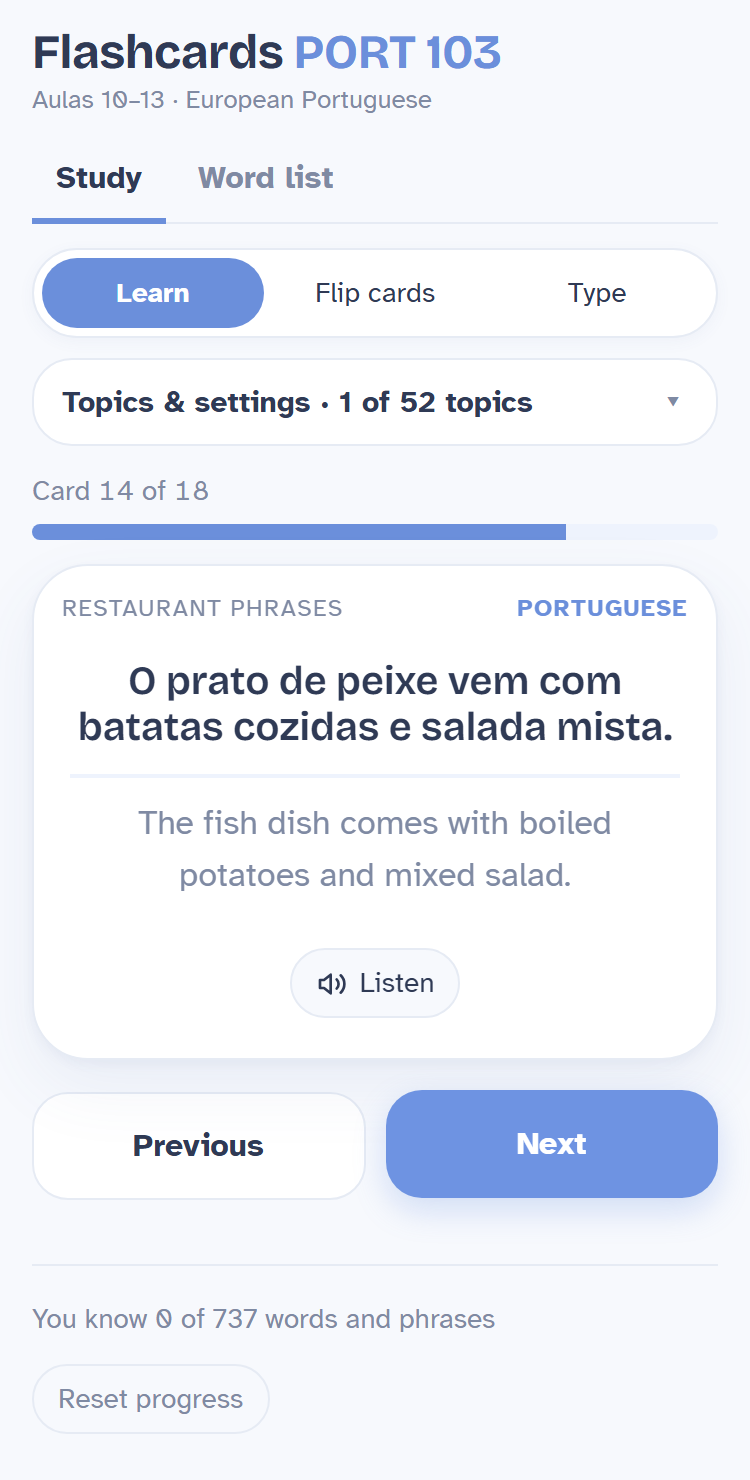
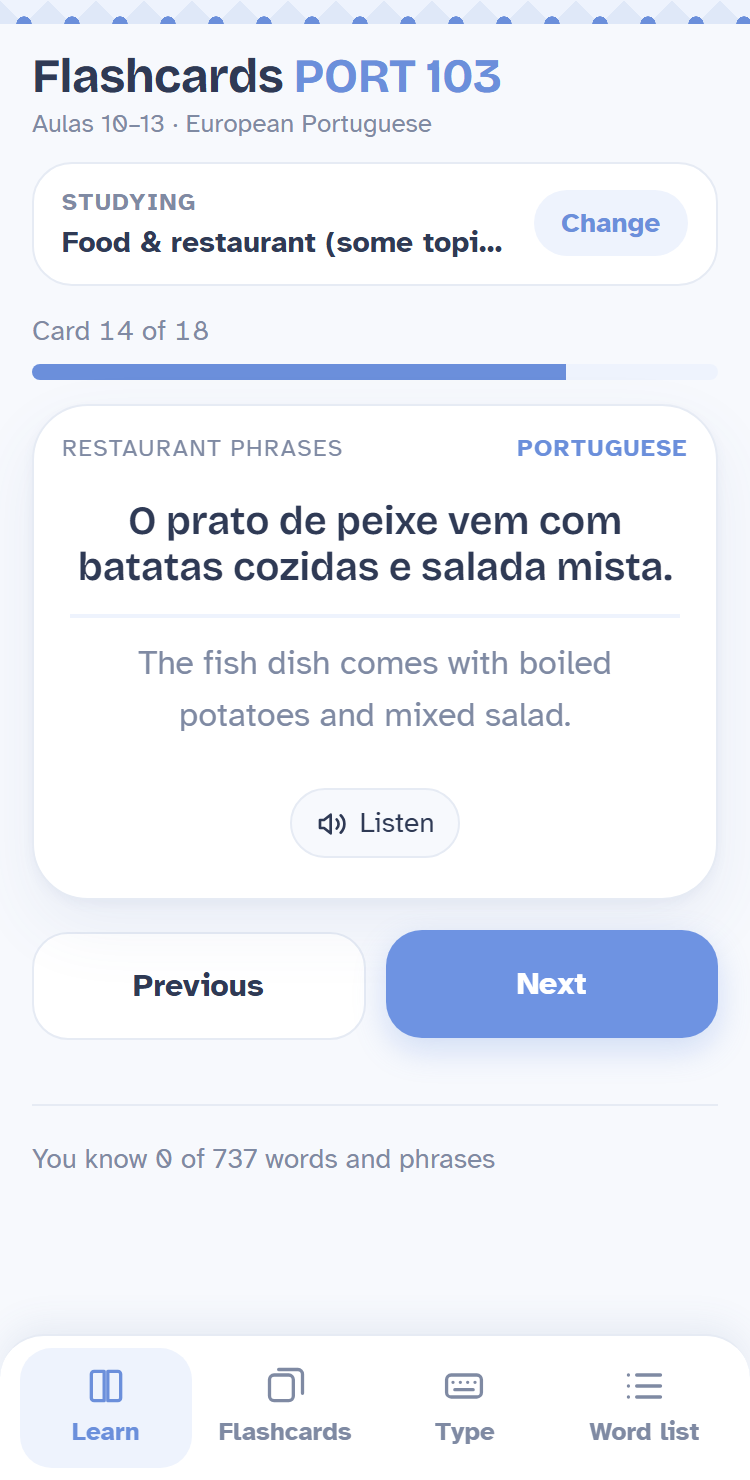
PORT 103: interface mais simples (menu em baixo, escolher por aula)

diff --git a/port103/index.html b/port103/index.html
@@ -80,6 +80,43 @@ details.topics[open]>summary .chev{transform:rotate(180deg)}
 .status{display:flex;justify-content:space-between;gap:12px;font-size:14px;color:var(--muted);margin-bottom:6px;font-variant-numeric:tabular-nums;flex-wrap:wrap}
 .bar{height:8px;background:var(--azul-soft);border-radius:99px;overflow:hidden;margin-bottom:16px}
 .bar i{display:block;height:100%;background:var(--azul);width:0;transition:width .3s}
+/* one menu for the four ways to study */
+.views{display:grid;grid-template-columns:repeat(4,1fr);gap:4px;background:var(--surface);border:1px solid var(--line);border-radius:22px;padding:5px;margin-bottom:14px;box-shadow:0 2px 10px rgba(80,105,160,.06)}
+.views button{border:0;background:none;border-radius:16px;padding:8px 4px;display:flex;flex-direction:column;align-items:center;gap:3px;font-size:13px;font-weight:700;color:var(--muted);-webkit-tap-highlight-color:transparent}
+.views svg{width:22px;height:22px}
+.views button[aria-pressed="true"]{background:var(--azul-soft);color:var(--azul)}
+/* what am I studying */
+details.topics>summary .sum-l{display:grid;min-width:0}
+.sum-k{font-size:12px;text-transform:uppercase;letter-spacing:.06em;color:var(--muted);font-weight:700}
+.sum-v{font-weight:700;white-space:nowrap;overflow:hidden;text-overflow:ellipsis}
+.sum-btn{flex:none;color:var(--azul);background:var(--azul-soft);font-size:14px;font-weight:700;padding:6px 14px;border-radius:999px}
+.groups{display:grid;gap:10px}
+.grp{border:1px solid var(--line);border-radius:18px;background:var(--bg)}
+.grp-row{width:100%;display:flex;align-items:center;gap:12px;background:none;border:0;padding:12px 14px;text-align:left;border-radius:18px;-webkit-tap-highlight-color:transparent}
+.tick{width:24px;height:24px;border-radius:8px;border:2px solid var(--line);flex:none;display:grid;place-items:center;background:var(--surface)}
+.grp-row[aria-pressed="true"] .tick{background:var(--azul);border-color:var(--azul)}
+.grp-row[aria-pressed="true"] .tick::after{content:"";width:6px;height:11px;border:solid var(--azul-ink);border-width:0 2.5px 2.5px 0;transform:translateY(-1px) rotate(45deg)}
+.grp-row[aria-pressed="mixed"] .tick{border-color:var(--azul)}
+.grp-row[aria-pressed="mixed"] .tick::after{content:"";width:10px;height:3px;background:var(--azul);border-radius:2px}
+.grp-txt{display:grid;min-width:0}
+.grp-name{font-weight:700;font-size:16px}
+.grp-meta{font-size:13px;color:var(--muted)}
+.grp-more>summary{list-style:none;cursor:pointer;padding:0 14px 12px 50px;font-size:13px;font-weight:700;color:var(--azul)}
+.grp-more>summary::-webkit-details-marker{display:none}
+.grp-more .chips{padding:0 14px 14px}
+.settings{display:grid;border-top:1px solid var(--line);padding-top:12px}
+.settings h3{font-family:var(--f-display);font-size:13px;text-transform:uppercase;letter-spacing:.08em;color:var(--muted);margin:0 0 2px}
+.set-row{display:flex;justify-content:space-between;align-items:center;gap:8px 12px;padding:8px 0;font-size:15px;flex-wrap:wrap}
+.set-row .seg button{padding:6px 10px}
+.switch{appearance:none;-webkit-appearance:none;width:44px;height:26px;border-radius:99px;background:var(--line);position:relative;cursor:pointer;flex:none;margin:0;transition:background .2s}
+.switch::after{content:"";position:absolute;top:3px;left:3px;width:20px;height:20px;border-radius:50%;background:var(--surface);box-shadow:0 1px 3px rgba(0,0,0,.2);transition:transform .2s}
+.switch:checked{background:var(--azul)}
+.switch:checked::after{transform:translateX(18px)}
+@media (max-width:700px){
+  .views{position:fixed;left:0;right:0;bottom:0;z-index:20;margin:0;border-radius:22px 22px 0 0;border-width:1px 0 0;box-shadow:0 -4px 18px rgba(80,105,160,.10);
+    padding:6px max(10px, env(safe-area-inset-right, 0px)) calc(6px + env(safe-area-inset-bottom, 0px)) max(10px, env(safe-area-inset-left, 0px))}
+  .wrap{padding-bottom:110px}
+}
 /* card */
 .scene{perspective:1400px;margin-bottom:16px}
 .card{position:relative;display:grid;min-height:260px;transform-style:preserve-3d;transition:transform .45s cubic-bezier(.3,.7,.3,1);cursor:pointer;-webkit-tap-highlight-color:transparent;touch-action:pan-y}
@@ -184,31 +221,26 @@ footer{margin-top:32px;padding-top:16px;border-top:1px solid var(--line);display
     <button class="ghost" id="uiLang" type="button" hidden></button>
   </header>
 
-  <nav class="tabs" role="tablist">
-    <button role="tab" id="tabStudy" aria-selected="true" type="button"></button>
-    <button role="tab" id="tabList" aria-selected="false" type="button"></button>
-  </nav>
+  <nav class="views" id="views" aria-label="Study mode"></nav>
 
   <section id="study">
-    <div class="controls">
-      <div class="seg" id="dirSeg" role="group"></div>
-      <div class="seg" id="modeSeg" role="group"></div>
-    </div>
-
     <details class="topics" id="topics">
-      <summary><span id="topicsTitle"></span><span class="chev" aria-hidden="true">▾</span></summary>
+      <summary>
+        <span class="sum-l"><span class="sum-k" id="topicsLabel"></span><span class="sum-v" id="topicsTitle"></span></span>
+        <span class="sum-btn" id="topicsBtn"></span>
+      </summary>
       <div class="topics-body">
-        <div class="settings-row">
-          <label class="inline" for="roundSize" id="roundWrap"><span id="lblRound"></span>
+        <div id="topicGroups" class="groups"></div>
+        <div class="settings">
+          <h3 id="setTitle"></h3>
+          <div class="set-row" id="dirRow"><span id="lblDir"></span><div class="seg" id="dirSeg" role="group"></div></div>
+          <div class="set-row" id="roundWrap"><label for="roundSize" id="lblRound"></label>
             <select id="roundSize"><option value="10">10</option><option value="20">20</option><option value="40">40</option><option value="0"></option></select>
-          </label>
-          <label class="inline" for="weakOnly"><input type="checkbox" id="weakOnly"> <span id="lblWeak"></span></label>
+          </div>
+          <label class="set-row" for="weakOnly"><span id="lblWeak"></span><input type="checkbox" id="weakOnly" class="switch"></label>
+          <div class="set-row"><span id="resetWrap"></span></div>
         </div>
-        <div class="topics-actions">
-          <button class="ghost" type="button" id="allTopics"></button>
-          <button class="ghost" type="button" id="noTopics"></button>
-        </div>
-        <div id="topicGroups" class="topics-body" style="padding:0"></div>
+        <button class="btn primary" type="button" data-act="closetopics" id="doneBtn"></button>
       </div>
     </details>
 
@@ -259,7 +291,6 @@ footer{margin-top:32px;padding-top:16px;border-top:1px solid var(--line);display
 
   <footer>
     <span id="totals"></span>
-    <span id="resetWrap"><button class="ghost" type="button" id="resetBtn"></button></span>
   </footer>
 </div>
 
@@ -267,11 +298,11 @@ footer{margin-top:32px;padding-top:16px;border-top:1px solid var(--line);display
 // ======================= VOCABULÁRIO (PORT 103, Aulas 10–13) =======================
 // Formato: "português = inglês", uma palavra por linha.
 var GROUPS = [
- {id:'casa', pt:'Casa (Aula 10)', en:'Home (Aula 10)'},
- {id:'comida', pt:'Comida e restaurante (Aula 11)', en:'Food & restaurant (Aula 11)'},
- {id:'compras', pt:'Compras e roupa (Aula 12)', en:'Shopping & clothes (Aula 12)'},
- {id:'viagens', pt:'Viagens e tempo (Aula 13)', en:'Travel & weather (Aula 13)'},
- {id:'gram', pt:'Gramática', en:'Grammar'}
+ {id:'casa', pt:'Casa', en:'Home', aula:'Aula 10'},
+ {id:'comida', pt:'Comida e restaurante', en:'Food & restaurant', aula:'Aula 11'},
+ {id:'compras', pt:'Compras e roupa', en:'Shopping & clothes', aula:'Aula 12'},
+ {id:'viagens', pt:'Viagens e tempo', en:'Travel & weather', aula:'Aula 13'},
+ {id:'gram', pt:'Gramática', en:'Grammar', aula:'Verbs, plurals…'}
 ];
 var CATS = [
 {id:'habitacao', g:'casa', pt:'Lugares e tipos de casa', en:'Places & housing', d:`
@@ -1038,7 +1069,11 @@ A cama é grande. = The bed is big.`});
 // ======================= APP =======================
 var T = {
  pt:{sub:'Aulas 10–13 · Português europeu', other:'English', study:'Estudar', list:'Lista de palavras',
-  dir:{'pt-en':'PT → EN','en-pt':'EN → PT','mix':'Misturado'}, mode:{learn:'Aprender',flip:'Virar cartões',type:'Escrever'},
+  dir:{'pt-en':'Português','en-pt':'Inglês','mix':'Misturado'}, mode:{learn:'Aprender',flip:'Cartões',type:'Escrever',list:'Lista'},
+  studying:'A estudar', change:'Mudar', closeP:'Fechar', setTitle:'Definições', dirLbl:'Mostrar primeiro', done:'Pronto',
+  nWords:function(n){return n+' palavras';}, some:'alguns temas', nothing:'Nada escolhido', everything:'Tudo',
+  oneTopics:function(n){return 'Escolher temas soltos ('+n+')';},
+  stats:function(r,a){return r+' certas'+(a?' · '+a+' a repetir':'');},
   prev:'Anterior', practise:'Praticar com flashcards', keysLearn:'Teclado: ← anterior · → seguinte · espaço ouve · no telemóvel, desliza o cartão',
   round:'Ronda', all:'todas', weak:'Só as que ainda não sei', topics:'Temas', topicsN:function(a,b){return 'Temas: '+a+' de '+b+' escolhidos';},
   selAll:'Escolher todos', selNone:'Limpar', selGroup:'Escolher todos', unselGroup:'Tirar todos', card:'Cartão', of:'de', know:'Sei', dont:'Repetir', show:'Mostrar resposta',
@@ -1052,7 +1087,11 @@ var T = {
   legNew:'por estudar', legLearn:'a aprender', legKnown:'já sei', totals:function(k,n){return 'Já sabes '+k+' de '+n+' palavras e frases';},
   reset:'Apagar o progresso', resetQ:'Apagar tudo?', yes:'Sim, apagar', no:'Não', pt:'PORTUGUÊS', en:'INGLÊS', nores:'Nada encontrado.'},
  en:{sub:'Aulas 10–13 · European Portuguese', other:'Português', study:'Study', list:'Word list',
-  dir:{'pt-en':'PT → EN','en-pt':'EN → PT','mix':'Mixed'}, mode:{learn:'Learn',flip:'Flip cards',type:'Type'},
+  dir:{'pt-en':'Portuguese','en-pt':'English','mix':'Mixed'}, mode:{learn:'Learn',flip:'Flashcards',type:'Type',list:'Word list'},
+  studying:'Studying', change:'Change', closeP:'Close', setTitle:'Settings', dirLbl:'Show first', done:'Done',
+  nWords:function(n){return n+' words';}, some:'some topics', nothing:'Nothing chosen yet', everything:'Everything',
+  oneTopics:function(n){return 'Choose single topics ('+n+')';},
+  stats:function(r,a){return r+' right'+(a?' · '+a+' to repeat':'');},
   prev:'Previous', practise:'Practise these as flashcards', keysLearn:'Keys: ← previous · → next · space to listen · on a phone, swipe the card',
   round:'Cards per round', all:'all', weak:'Only words I don’t know yet', topics:'Topics', topicsN:function(a,b){return 'Topics & settings · '+a+' of '+b+' topics';},
   selAll:'Choose all topics', selNone:'Clear all', selGroup:'Select all', unselGroup:'Deselect all', card:'Card', of:'of', know:'I know it', dont:'Again', show:'Show answer',
@@ -1224,13 +1263,20 @@ function renderChrome(){
   var t = L();
   document.documentElement.lang = S.lang === 'pt' ? 'pt-PT' : 'en';
   $('sub').textContent = t.sub; $('uiLang').textContent = t.other;
-  $('tabStudy').textContent = t.study; $('tabList').textContent = t.list;
+  var view = $('list').hidden ? S.mode : 'list';
+  var ICO = {learn:'<path d="M4 5.5A1.5 1.5 0 0 1 5.5 4H11v16H5.5A1.5 1.5 0 0 1 4 18.5z"/><path d="M20 5.5A1.5 1.5 0 0 0 18.5 4H13v16h5.5a1.5 1.5 0 0 0 1.5-1.5z"/>',
+    flip:'<rect x="3" y="6" width="13" height="14" rx="2.5"/><path d="M8 3h10.5A2.5 2.5 0 0 1 21 5.5V16"/>',
+    type:'<rect x="2.5" y="6" width="19" height="12" rx="2.5"/><path d="M6 10h.01M10 10h.01M14 10h.01M18 10h.01M7 14h10"/>',
+    list:'<path d="M8 6h13M8 12h13M8 18h13"/><path d="M3.5 6h.01M3.5 12h.01M3.5 18h.01"/>'};
+  $('views').innerHTML = ['learn','flip','type','list'].map(function(m){
+    return '<button type="button" data-view="'+m+'" aria-pressed="'+(view===m)+'"><svg viewBox="0 0 24 24" fill="none" stroke="currentColor" stroke-width="1.8" stroke-linecap="round" stroke-linejoin="round" aria-hidden="true">'+ICO[m]+'</svg><span>'+t.mode[m]+'</span></button>';
+  }).join('');
   $('dirSeg').innerHTML = ['pt-en','en-pt','mix'].map(function(d){ return '<button type="button" data-dir="'+d+'" aria-pressed="'+(S.dir===d)+'">'+t.dir[d]+'</button>'; }).join('');
-  $('dirSeg').hidden = S.mode === 'learn'; $('roundWrap').hidden = S.mode === 'learn';
-  $('modeSeg').innerHTML = ['learn','flip','type'].map(function(m){ return '<button type="button" data-mode="'+m+'" aria-pressed="'+(S.mode===m)+'">'+t.mode[m]+'</button>'; }).join('');
+  $('dirRow').hidden = S.mode === 'learn'; $('roundWrap').hidden = S.mode === 'learn';
+  $('lblDir').textContent = t.dirLbl; $('setTitle').textContent = t.setTitle; $('doneBtn').textContent = t.done;
+  $('topicsLabel').textContent = t.studying;
   $('lblRound').textContent = t.round; $('roundSize').value = String(S.round); $('roundSize').options[3].textContent = t.all;
   $('lblWeak').textContent = t.weak; $('weakOnly').checked = !!S.weak;
-  $('allTopics').textContent = t.selAll; $('noTopics').textContent = t.selNone;
   $('answer').placeholder = t.placeholder; $('checkBtn').textContent = t.check;
   $('search').placeholder = t.search;
   $('legend').innerHTML = '<span><i class="dot"></i>'+t.legNew+'</span><span><i class="dot l1"></i>'+t.legLearn+'</span><span><i class="dot l2"></i>'+t.legKnown+'</span>';
@@ -1241,16 +1287,23 @@ function renderChrome(){
   renderTopics(); renderTotals(); resetFooter();
 }
 function renderTopics(){
-  var t = L();
-  $('topicsTitle').textContent = t.topicsN(S.cats.length, CATS.length);
+  var t = L(), open = {}, names = [], full = 0;
+  document.querySelectorAll('.grp-more[open]').forEach(function(d){ open[d.dataset.g] = 1; });
   $('topicGroups').innerHTML = GROUPS.map(function(g){
     var gc = CATS.filter(function(c){ return c.g===g.id; });
-    var allOn = gc.every(function(c){ return S.cats.indexOf(c.id)>=0; });
-    return '<div class="grp"><div class="grp-head"><h3>'+esc(g[S.lang])+'</h3><button type="button" class="ghost small" data-grp="'+g.id+'" data-on="'+(allOn?1:0)+'">'+(allOn?t.unselGroup:t.selGroup)+'</button></div><div class="chips">' + gc.map(function(c){
-      var its = BYCAT[c.id], k = its.filter(function(it){ return level(it.key)===2; }).length;
-      return '<button type="button" class="chip" data-cat="'+c.id+'" aria-pressed="'+(S.cats.indexOf(c.id)>=0)+'">'+esc(c[S.lang])+' <small>'+k+'/'+its.length+'</small></button>';
-    }).join('') + '</div></div>';
+    var on = gc.filter(function(c){ return S.cats.indexOf(c.id)>=0; }).length;
+    var state = on === gc.length ? 'true' : on ? 'mixed' : 'false';
+    if(on){ names.push(g[S.lang] + (on < gc.length ? ' (' + t.some + ')' : '')); if(on === gc.length) full++; }
+    var seen = {}; gc.forEach(function(c){ BYCAT[c.id].forEach(function(it){ seen[it.key] = 1; }); });
+    return '<div class="grp"><button type="button" class="grp-row" data-grp="'+g.id+'" data-on="'+(state==='true'?1:0)+'" aria-pressed="'+state+'">'
+      + '<span class="tick" aria-hidden="true"></span><span class="grp-txt"><span class="grp-name">'+esc(g[S.lang])+'</span><span class="grp-meta">'+esc(g.aula)+' · '+t.nWords(Object.keys(seen).length)+'</span></span></button>'
+      + '<details class="grp-more" data-g="'+g.id+'"'+(open[g.id]?' open':'')+'><summary>'+t.oneTopics(gc.length)+'</summary><div class="chips">' + gc.map(function(c){
+        var its = BYCAT[c.id], k = its.filter(function(it){ return level(it.key)===2; }).length;
+        return '<button type="button" class="chip" data-cat="'+c.id+'" aria-pressed="'+(S.cats.indexOf(c.id)>=0)+'">'+esc(c[S.lang])+' <small>'+k+'/'+its.length+'</small></button>';
+      }).join('') + '</div></details></div>';
   }).join('');
+  $('topicsTitle').textContent = !names.length ? t.nothing : full === GROUPS.length ? t.everything : names.join(', ');
+  $('topicsBtn').textContent = $('topics').open ? t.closeP : t.change;
 }
 function renderTotals(){
   var k = Object.keys(UNIQUE).filter(function(key){ return level(key)===2; }).length;
@@ -1281,7 +1334,7 @@ function renderStudy(){
   player.hidden = false;
   var it = c.it, cat = catOf(it.cat), front = c.dir === 'pt-en' ? 'pt' : 'en', back = front === 'pt' ? 'en' : 'pt';
   $('stRound').textContent = t.card + ' ' + Math.min(R.done + 1, R.total) + ' ' + t.of + ' ' + R.total;
-  $('stCounts').textContent = '✓ ' + R.firstOk + ' · ↺ ' + R.missed.length;
+  $('stCounts').textContent = R.done || R.missed.length ? t.stats(R.firstOk, R.missed.length) : '';
   $('barFill').style.width = (R.done / R.total * 100) + '%';
   $('fTag').textContent = cat[S.lang]; $('bTag').textContent = cat[S.lang];
   $('fLang').textContent = t[front]; $('bLang').textContent = t[back];
@@ -1349,7 +1402,7 @@ function renderList(){
 }
 function showTab(which){
   $('study').hidden = which !== 'study'; $('list').hidden = which !== 'list';
-  $('tabStudy').setAttribute('aria-selected', which === 'study'); $('tabList').setAttribute('aria-selected', which === 'list');
+  document.querySelectorAll('#views button').forEach(function(btn){ btn.setAttribute('aria-pressed', which === 'list' ? btn.dataset.view === 'list' : btn.dataset.view === S.mode); });
   if(which === 'list') renderList();
 }
 function saveS(){ store('p103-settings', S); }
@@ -1358,10 +1411,11 @@ function saveS(){ store('p103-settings', S); }
 document.addEventListener('click', function(e){
   var b = e.target.closest('button, .card'); if(!b) return;
   if(b.id === 'uiLang'){ S.lang = S.lang === 'pt' ? 'en' : 'pt'; saveS(); renderChrome(); renderStudy(); if(!$('list').hidden) renderList(); return; }
-  if(b.id === 'tabStudy') return showTab('study');
-  if(b.id === 'tabList') return showTab('list');
+  if(b.dataset.view){
+    if(b.dataset.view === 'list') return showTab('list');
+    S.mode = b.dataset.view; saveS(); showTab('study'); renderChrome(); if(R){ R.flipped=false; R.checked=false; } renderStudy(); return;
+  }
   if(b.dataset.dir){ S.dir = b.dataset.dir; saveS(); renderChrome(); newRound(); return; }
-  if(b.dataset.mode){ S.mode = b.dataset.mode; saveS(); renderChrome(); if(R){ R.flipped=false; R.checked=false; } renderStudy(); return; }
   if(b.dataset.cat){ var i = S.cats.indexOf(b.dataset.cat); if(i>=0) S.cats.splice(i,1); else S.cats.push(b.dataset.cat); saveS(); renderTopics(); newRound(); return; }
   if(b.dataset.grp){
     var ids = CATS.filter(function(c){ return c.g===b.dataset.grp; }).map(function(c){ return c.id; });
@@ -1393,7 +1447,9 @@ document.addEventListener('click', function(e){
   if(a === 'newround') return newRound();
   if(a === 'includeall') return newRound(true);
   if(a === 'opentopics'){ $('topics').open = true; $('topics').scrollIntoView({block:'start', behavior:'smooth'}); return; }
+  if(a === 'closetopics'){ $('topics').open = false; window.scrollTo({top:0, behavior:'smooth'}); return; }
 });
+$('topics').addEventListener('toggle', function(){ $('topicsBtn').textContent = this.open ? L().closeP : L().change; });
 $('typeForm').addEventListener('submit', function(e){
   e.preventDefault();
   var c = cur(); if(!c || R.checked) return;
